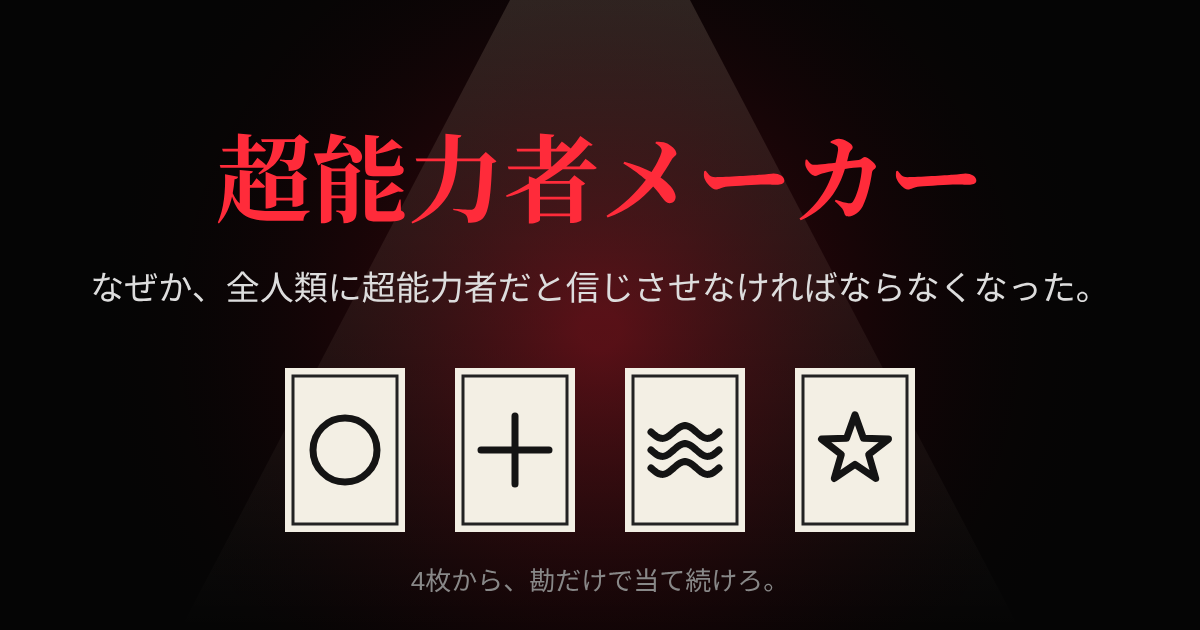
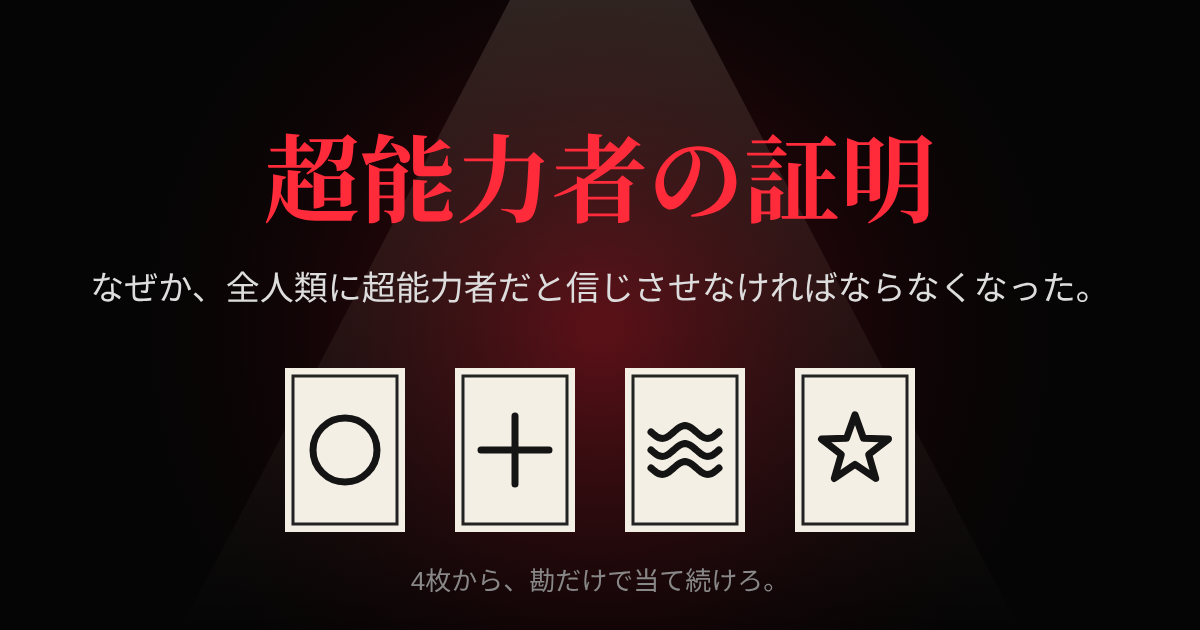
feat: start page and rename the game to 超能力者の証明
Claude-Session: https://claude.ai/code/session_01U8PzaTrGJ2dpYpfjzCtfUs

Changed region(s): [[0.185, 0.2111, 0.8325, 0.3619]]

diff --git a/src/ui/screens.js b/src/ui/screens.js
@@ -4,6 +4,28 @@ const fmt = (n) => Math.round(n).toLocaleString('en-US');
 const sleep = (ms) => new Promise((r) => setTimeout(r, ms));
 const esc = (s) => String(s).replace(/[&<>"]/g, (c) => ({ '&': '&amp;', '<': '&lt;', '>': '&gt;', '"': '&quot;' }[c]));
 
+// 書き殴った赤い目を1つ、小さなキャンバスに描いておく(スタート画面の背景用)
+function eyeSprite(w) {
+  const c = document.createElement('canvas'); c.width = w * 2.6; c.height = w * 1.8;
+  const g = c.getContext('2d'), cx = c.width / 2, cy = c.height / 2;
+  const j = (v, a) => v + (Math.random() - 0.5) * a;
+  g.lineCap = 'round'; g.shadowColor = '#ff1a10'; g.shadowBlur = w * 0.25;
+  for (let p = 0; p < 6; p++) {
+    g.strokeStyle = `rgba(255,${25 + Math.random() * 30},20,${0.5 + Math.random() * 0.5})`;
+    g.lineWidth = Math.max(1, w * (0.03 + Math.random() * 0.04));
+    g.beginPath();
+    for (let i = 0; i <= 36; i++) {
+      const a = (i / 36) * Math.PI * 2 + p * 0.4;
+      const x = cx + Math.cos(a) * w * j(1, 0.15), y = cy + Math.sin(a) * w * 0.42 * j(1, 0.2);
+      i ? g.lineTo(j(x, w * 0.06), j(y, w * 0.06)) : g.moveTo(x, y);
+    }
+    g.stroke();
+  }
+  g.strokeStyle = '#ff2a1a';
+  for (let i = 0; i < 18; i++) { g.lineWidth = Math.max(1, w * 0.04); g.beginPath(); g.arc(j(cx, w * 0.1), j(cy, w * 0.08), w * (0.06 + Math.random() * 0.22), Math.random() * 6, Math.random() * 6 + 3); g.stroke(); }
+  return c;
+}
+
 export function createScreens(ui) {
   const layer = document.createElement('div');
   layer.className = 'screens';
@@ -26,6 +48,49 @@ export function createScreens(ui) {
 
   return {
     clear,
+    // スタート画面：黒地の真ん中に縦書きで題字、後ろで信者の目がぼんやり光る。どこかをタップで進む
+    title(text = '超能力者の証明') {
+      const s = mount(`<canvas></canvas><div class="title-text">${esc(text)}</div><p class="title-hint">画面をタップ</p>`, 'title-screen interactive');
+      s.dataset.title = '';
+      const cv = s.querySelector('canvas'), g = cv.getContext('2d');
+      const dpr = Math.min(window.devicePixelRatio || 1, 2);
+      let eyes = [], alive = true;
+      const layout = () => {
+        cv.width = innerWidth * dpr; cv.height = innerHeight * dpr;
+        const n = Math.round(10 + (innerWidth * innerHeight) / 40000);
+        eyes = Array.from({ length: n }, () => {
+          // 題字の真後ろ(中央の帯)は避けて散らす
+          let x; do { x = Math.random(); } while (Math.abs(x - 0.5) < 0.2);
+          const w = (14 + Math.random() * 30) * dpr;
+          return { x: x * cv.width, y: Math.random() * cv.height, img: eyeSprite(w), ph: Math.random() * 6.3, sp: 0.4 + Math.random() * 0.6, blink: 0, next: 1 + Math.random() * 6 };
+        });
+      };
+      layout(); addEventListener('resize', layout);
+      let last = performance.now();
+      const draw = (now) => {
+        if (!alive) return;
+        const dt = Math.min(0.1, (now - last) / 1000); last = now;
+        g.clearRect(0, 0, cv.width, cv.height);
+        g.filter = `blur(${1.6 * dpr}px)`; // ぼんやり
+        for (const e of eyes) {
+          e.next -= dt; if (e.next <= 0) { e.blink = 0.22; e.next = 3 + Math.random() * 7; }
+          e.blink = Math.max(0, e.blink - dt);
+          const open = e.blink > 0 ? Math.abs(Math.cos((e.blink / 0.22) * Math.PI)) : 1;
+          g.globalAlpha = 0.18 + 0.22 * (0.5 + 0.5 * Math.sin(now / 1000 * e.sp + e.ph));
+          const w = e.img.width, h = e.img.height * Math.max(0.06, open);
+          g.drawImage(e.img, e.x - w / 2, e.y - h / 2, w, h);
+        }
+        g.globalAlpha = 1; g.filter = 'none';
+        requestAnimationFrame(draw);
+      };
+      requestAnimationFrame(draw);
+      return new Promise((resolve) => {
+        s.addEventListener('click', async () => {
+          s.classList.remove('in'); await sleep(500);
+          alive = false; removeEventListener('resize', layout); clear(); resolve();
+        }, { once: true });
+      });
+    },
     async story(lines, button, { dark = true } = {}) {
       const s = mount(`${lines.map((_, i) => `<p class="line l${i}"></p>`).join('')}<button class="interactive btn" hidden>${esc(button)}</button>`, dark ? 'dark' : '');
       const ps = s.querySelectorAll('p');

diff --git a/src/share.js b/src/share.js
@@ -1,11 +1,11 @@
 import { drawSymbol } from './scene/symbols.js';
-import { GAME_URL, SYMBOLS } from './config.js';
+import { GAME_URL, GAME_TITLE, SYMBOLS } from './config.js';
 
 const fmt = (n) => Math.round(n).toLocaleString('en-US');
 
 export function shareText(r) {
   const head = r.cleared ? '全人類に超能力者だと信じさせた。' : r.vanishedNumber != null ? `${fmt(r.vanishedNumber)}人目の消えた挑戦者になった。` : '';
-  return `【超能力者メーカー】最大${r.maxStreak}連続で的中（確率 ${r.odds.percentText}）。${r.odds.analogy}のと同じくらいの確率らしい。${head}`;
+  return `【${GAME_TITLE}】最大${r.maxStreak}連続で的中（確率 ${r.odds.percentText}）。${r.odds.analogy}のと同じくらいの確率らしい。${head}`;
 }
 
 export function xIntentUrl(text, url) {
@@ -18,8 +18,8 @@ export async function shareResult(blob, result, url = GAME_URL, env = globalThis
   const text = shareText(result);
   const nav = env.navigator;
   try {
-    const file = new env.File([blob], 'chounouryokusha-maker.png', { type: 'image/png' });
-    const data = { files: [file], text, url, title: '超能力者メーカー' };
+    const file = new env.File([blob], 'chounouryokusha-no-shoumei.png', { type: 'image/png' });
+    const data = { files: [file], text, url, title: GAME_TITLE };
     if (nav?.canShare?.({ files: [file] }) && nav.share) {
       await nav.share(data);
       return 'shared';
@@ -46,7 +46,7 @@ export function drawResultImage(r, canvas = document.createElement('canvas')) {
   g.fillStyle = sp; g.beginPath(); g.moveTo(W / 2 - 120, 0); g.lineTo(W / 2 + 120, 0); g.lineTo(W / 2 + 460, H); g.lineTo(W / 2 - 460, H); g.fill();
 
   g.textAlign = 'center'; g.fillStyle = '#ff2b3a';
-  g.font = `bold 64px ${serif}`; g.fillText('超 能 力 者 メ ー カ ー', W / 2, 140);
+  g.font = `bold 64px ${serif}`; g.fillText([...GAME_TITLE].join(' '), W / 2, 140);
   g.fillStyle = '#aaa'; g.font = `32px ${sans}`; g.fillText(r.challenger.label, W / 2, 215);
 
   g.fillStyle = '#ccc'; g.font = `40px ${sans}`; g.fillText('最大連続', W / 2, 340);
@@ -96,7 +96,7 @@ export function prepareShare(result, makeBlob = drawResultImage, env = globalThi
 
 function showFallback(fallbackEl, url, result) {
   fallbackEl.innerHTML = `<img src="${url}" alt="結果画像" style="width:70%;border:1px solid #333;margin:.6em 0"><br>
-    <a href="${url}" download="chounouryokusha-maker.png">画像を保存する</a>
+    <a href="${url}" download="chounouryokusha-no-shoumei.png">画像を保存する</a>
     <a href="${xIntentUrl(shareText(result), GAME_URL)}" target="_blank" rel="noopener">Xに投稿する</a>`;
   fallbackEl.hidden = false;
 }

diff --git a/tests/share.test.js b/tests/share.test.js
@@ -4,14 +4,14 @@ import { oddsFor } from '../src/odds.js';
 
 const result = { maxStreak: 10, odds: oddsFor(10), cleared: false, vanishedNumber: 12345, believers: 500, rounds: 30, challenger: { label: '挑戦者 No.0001 佐藤 健一(38) 会社員' } };
 const blob = { type: 'image/png' };
-const URL_ = 'https://nagashinocat.github.io/chounouryokusha-maker/';
+const URL_ = 'https://nagashinocat.github.io/chounouryokusha-no-shoumei/';
 
 it('uses Web Share with the image when files can be shared', async () => {
   const share = vi.fn(async () => {});
   const env = { navigator: { canShare: () => true, share }, File: class { constructor(p, n, o) { this.name = n; this.type = o.type; } }, open: vi.fn() };
   expect(await shareResult(blob, result, URL_, env)).toBe('shared');
   const arg = share.mock.calls[0][0];
-  expect(arg.files[0].name).toBe('chounouryokusha-maker.png');
+  expect(arg.files[0].name).toBe('chounouryokusha-no-shoumei.png');
   expect(arg.text).toContain('10連続');
 });
 
@@ -26,6 +26,7 @@ it('share text includes streak and odds; X url is encoded', () => {
   const t = shareText(result);
   expect(t).toContain('10連続');
   expect(t).toContain('1/1,048,576');
+  expect(t.startsWith('【超能力者の証明】')).toBe(true);
   const u = new URL(xIntentUrl(t, URL_));
   expect(u.origin + u.pathname).toBe('https://x.com/intent/post');
   expect(u.searchParams.get('text')).toBe(t);
@@ -47,4 +48,10 @@ it('prepared share calls navigator.share synchronously inside the tap (iOS)', as
   const p = h.share(null);
   expect(calledSync).toBe(true); // await より前に呼ばれている
   expect(await p).toBe('shared');
+});
+
+it('game URL and name use the new title', async () => {
+  const { GAME_URL, GAME_TITLE } = await import('../src/config.js');
+  expect(GAME_TITLE).toBe('超能力者の証明');
+  expect(GAME_URL).toBe('https://nagashinocat.github.io/chounouryokusha-no-shoumei/');
 });

diff --git a/e2e/title.spec.js b/e2e/title.spec.js
@@ -1,0 +1,24 @@
+import { test, expect } from '@playwright/test';
+
+test('start page: vertical white title on black with faint glowing eyes, tap to begin', async ({ page }) => {
+  await page.goto('/index.html?debug=miss');
+  const title = page.locator('[data-title] .title-text');
+  await expect(title).toHaveText('超能力者の証明');
+  await expect(title).toBeVisible();
+  const style = await title.evaluate((el) => { const s = getComputedStyle(el); return { wm: s.writingMode, color: s.color }; });
+  expect(style.wm).toBe('vertical-rl');
+  expect(style.color).toBe('rgb(255, 255, 255)');
+  const bg = await page.locator('[data-title]').evaluate((el) => getComputedStyle(el).backgroundColor);
+  expect(bg).toBe('rgb(0, 0, 0)');
+  // 後ろで目がぼんやり光っている(赤い画素がある)
+  await page.waitForTimeout(1500);
+  const red = await page.locator('[data-title] canvas').evaluate((c) => {
+    const d = c.getContext('2d').getImageData(0, 0, c.width, c.height).data; let n = 0;
+    for (let i = 0; i < d.length; i += 4) if (d[i] > 60 && d[i] > d[i + 1] * 2) n++;
+    return n;
+  });
+  expect(red).toBeGreaterThan(200);
+  await page.screenshot({ path: 'test-results/title.png' });
+  await page.locator('[data-title]').click();
+  await expect(page.getByRole('button', { name: '始める' })).toBeVisible({ timeout: 10000 });
+});

diff --git a/index.html b/index.html
@@ -3,13 +3,13 @@
 <head>
 <meta charset="utf-8">
 <meta name="viewport" content="width=device-width,initial-scale=1,maximum-scale=1,user-scalable=no,viewport-fit=cover">
-<title>超能力者メーカー</title>
+<title>超能力者の証明</title>
 <meta name="description" content="なぜか全人類に超能力者だと信じさせなければならなくなった。4枚のカードから、モニターのマークを勘だけで当て続けろ。">
-<meta property="og:title" content="超能力者メーカー">
+<meta property="og:title" content="超能力者の証明">
 <meta property="og:description" content="なぜか全人類に超能力者だと信じさせなければならなくなった。勘だけで当て続けろ。">
 <meta property="og:type" content="website">
-<meta property="og:url" content="https://nagashinocat.github.io/chounouryokusha-maker/">
-<meta property="og:image" content="https://nagashinocat.github.io/chounouryokusha-maker/og.png">
+<meta property="og:url" content="https://nagashinocat.github.io/chounouryokusha-no-shoumei/">
+<meta property="og:image" content="https://nagashinocat.github.io/chounouryokusha-no-shoumei/og.png">
 <meta name="twitter:card" content="summary_large_image">
 <meta name="theme-color" content="#000000">
 <link rel="stylesheet" href="style.css">

diff --git a/style.css b/style.css
@@ -53,3 +53,9 @@ html,body{margin:0;height:100%;background:#000;color:#eee;overflow:hidden;touch-
 .result .btns .btn{margin-top:0;min-width:15em;letter-spacing:.15em}
 .share-fallback{margin-top:1em;font-size:13px}.share-fallback a{color:#ffd76a}
 .mute{position:absolute;right:10px;bottom:max(10px,env(safe-area-inset-bottom));z-index:5;background:rgba(0,0,0,.4);border:1px solid #444;color:#ddd;border-radius:50%;width:40px;height:40px;font-size:18px;padding:0}
+
+.screen.title-screen{background:#000;transition:opacity .5s;pointer-events:auto}
+.title-screen canvas{position:absolute;inset:0;width:100%;height:100%}
+.title-screen .title-text{position:relative;writing-mode:vertical-rl;text-orientation:upright;color:#fff;font-size:clamp(34px,9vw,52px);letter-spacing:.35em;
+ font-family:"Hiragino Mincho ProN","Yu Mincho","Noto Serif JP","Noto Serif CJK JP",serif;font-weight:600;text-shadow:0 0 18px rgba(0,0,0,.9)}
+.title-screen .title-hint{position:absolute;bottom:max(28px,env(safe-area-inset-bottom));left:0;right:0;margin:0;font-size:12px;letter-spacing:.4em;color:#777;animation:pulse 2.4s ease-in-out infinite}

diff --git a/e2e/flow.spec.js b/e2e/flow.spec.js
@@ -9,6 +9,7 @@ async function tapCard(page, i = 0) {
 
 test('always miss: game over text then result', async ({ page }) => {
   await page.goto('/index.html?debug=miss');
+  await page.locator('[data-title]').click();
   await page.getByRole('button', { name: '始める' }).click();
   for (let i = 0; i < 4; i++) await tapCard(page, i % 4);
   await expect(page.getByText('その後、人口が一人減ったが誰も気づくことはなかった。')).toBeVisible({ timeout: 15000 });
@@ -22,6 +23,7 @@ test('always miss: game over text then result', async ({ page }) => {
 test('always hit: fate round then clear', async ({ page }) => {
   test.setTimeout(240000);
   await page.goto('/index.html?debug=rig');
+  await page.locator('[data-title]').click();
   await page.getByRole('button', { name: '始める' }).click();
   for (let i = 0; i < 15; i++) await tapCard(page, i % 4);
   await expect(page.locator('[data-fate]')).toBeVisible({ timeout: 20000 });

diff --git a/tools/og.html b/tools/og.html
@@ -8,7 +8,7 @@ const sp = g.createLinearGradient(0, 0, 0, H); sp.addColorStop(0, 'rgba(255,240,
 g.fillStyle = sp; g.beginPath(); g.moveTo(W/2-90,0); g.lineTo(W/2+90,0); g.lineTo(W/2+420,H); g.lineTo(W/2-420,H); g.fill();
 const rg = g.createRadialGradient(W/2, 330, 20, W/2, 330, 520); rg.addColorStop(0,'rgba(150,10,25,.5)'); rg.addColorStop(1,'rgba(0,0,0,0)'); g.fillStyle = rg; g.fillRect(0,0,W,H);
 g.textAlign = 'center';
-g.fillStyle = '#ff2b3a'; g.font = 'bold 96px "Noto Serif CJK JP","Noto Serif JP",serif'; g.fillText('超能力者メーカー', W/2, 215);
+g.fillStyle = '#ff2b3a'; g.font = 'bold 96px "Noto Serif CJK JP","Noto Serif JP",serif'; g.fillText('超能力者の証明', W/2, 215);
 g.fillStyle = '#ddd'; g.font = '34px "Noto Sans CJK JP",sans-serif';
 g.fillText('なぜか、全人類に超能力者だと信じさせなければならなくなった。', W/2, 300);
 ['circle','plus','wave','star'].forEach((s, i) => {

diff --git a/e2e/audio.spec.js b/e2e/audio.spec.js
@@ -5,6 +5,8 @@ test.use({ launchOptions: { executablePath: '/usr/bin/google-chrome', args: ['--
 
 test('a touch tap on 始める starts the audio and the music box', async ({ page }) => {
   await page.goto('/index.html?debug=miss');
+  const t = await page.locator('[data-title]').boundingBox();
+  await page.touchscreen.tap(t.x + t.width / 2, t.y + t.height / 2);
   const btn = page.getByRole('button', { name: '始める' });
   await btn.waitFor();
   const box = await btn.boundingBox();

diff --git a/src/config.js b/src/config.js
@@ -11,4 +11,5 @@ export const firebaseConfig = {
   appId: '',
 };
 export const appCheckSiteKey = '';
-export const GAME_URL = 'https://nagashinocat.github.io/chounouryokusha-maker/';
+export const GAME_TITLE = '超能力者の証明';
+export const GAME_URL = 'https://nagashinocat.github.io/chounouryokusha-no-shoumei/';

diff --git a/src/app.js b/src/app.js
@@ -93,5 +93,7 @@ export async function startGame({ stage, cards, audience, ui, params, audio = nu
   };
 
   const flow = createFlow({ counter, storage, view, rig, audio });
+  hud.show(false);
+  await screens.title();
   for (;;) await flow.start();
 }

diff --git a/docs/superpowers/specs/2026-11-19-chounouryokusha-maker-design.md b/docs/superpowers/specs/2026-11-19-chounouryokusha-maker-design.md
@@ -1,4 +1,4 @@
-# 超能力者メーカー 設計書
+# 超能力者の証明 設計書(旧名 超能力者メーカー)
 
 2026-11-19
 
@@ -94,6 +94,8 @@
 - つながらないときは、最後に取得できた数(端末に保存)で表示し、ゲームは普通に遊べる
 - リザルト画像に「あなたは〇人目の消えた挑戦者」を入れる【私の案】
 - サービスは **Firebase(プレイヤーのアカウント)**。Firestore にカウンター文書を1つ置く。Cloud Functions は有料プランが要るため使わず、無料プラン(Spark)の範囲で作る【私の判断】
+
+**スタート画面**(決定)：黒地の真ん中に白の縦書きで「超能力者の証明」。後ろで信者の赤い目がぼんやり光り、ときどきまばたく。画面をタップで進む(下に小さく「画面をタップ」と出すのは私の判断)。
 
 **オープニングと次の挑戦者**(決定＋私の案)
 - 初回：暗転から文字だけで「なぜか、あなたは全人類に超能力者だと信じさせなければならなくなった。」→ 部屋に照明が点く
